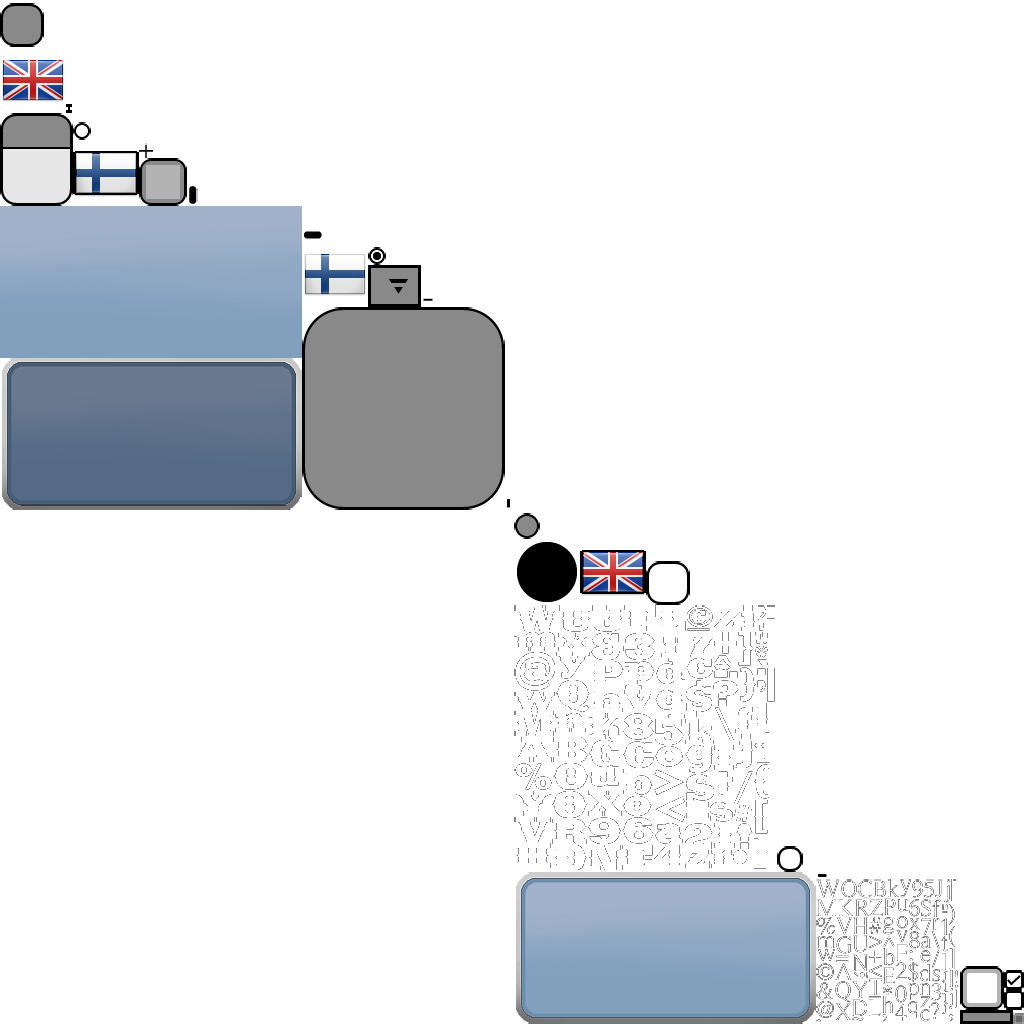
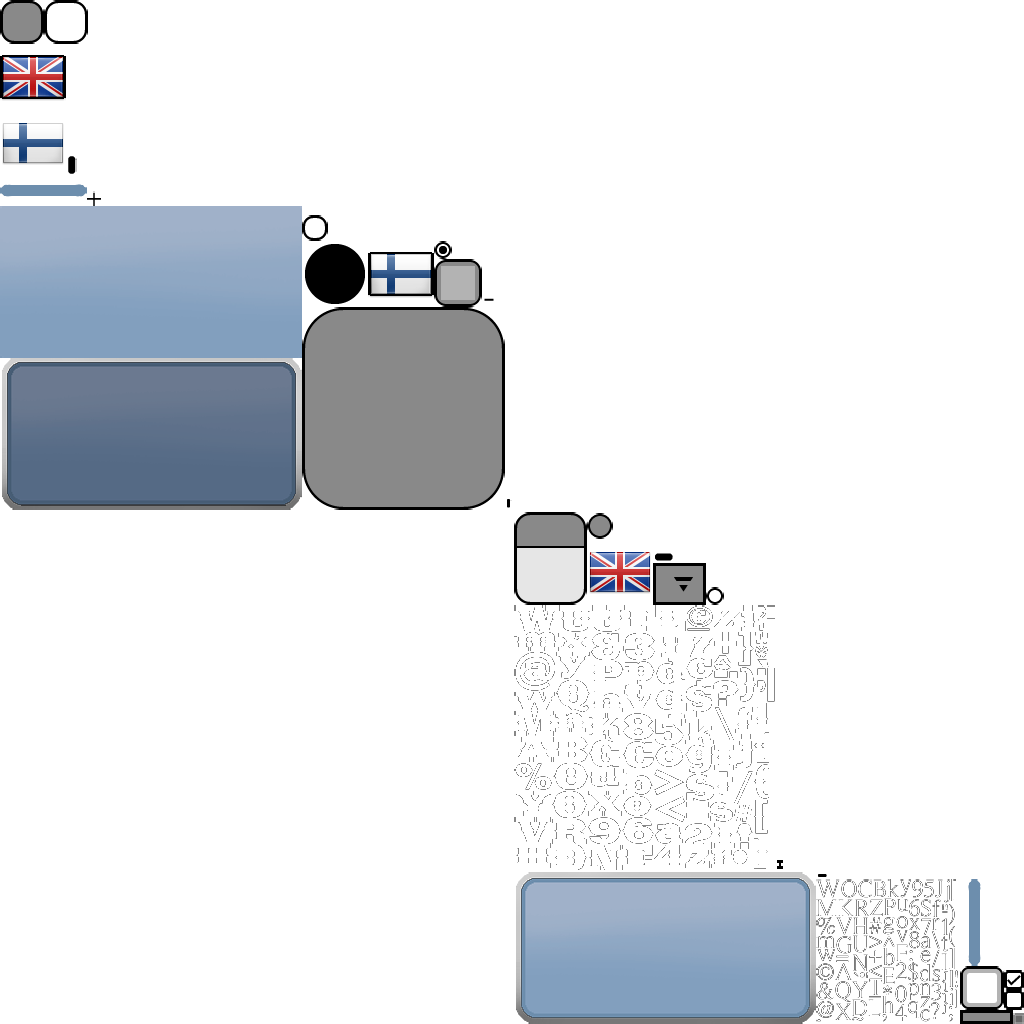
-Added locale texts for settings screen -Added text to settings screen, also sensitivity indicators -Disabled Y-axis for playtesting

diff --git a/core/src/com/mygdx/audioryder/screens/MainMenuScreen.java b/core/src/com/mygdx/audioryder/screens/MainMenuScreen.java
@@ -2,6 +2,7 @@ package com.mygdx.audioryder.screens;
 
 import com.badlogic.gdx.Gdx;
 import com.badlogic.gdx.Screen;
+import com.badlogic.gdx.graphics.Color;
 import com.badlogic.gdx.graphics.GL20;
 import com.badlogic.gdx.graphics.Texture;
 import com.badlogic.gdx.graphics.g2d.SpriteBatch;
@@ -15,6 +16,7 @@ import com.badlogic.gdx.scenes.scene2d.ui.ButtonGroup;
 import com.badlogic.gdx.scenes.scene2d.ui.HorizontalGroup;
 import com.badlogic.gdx.scenes.scene2d.ui.Image;
 import com.badlogic.gdx.scenes.scene2d.ui.ImageButton;
+import com.badlogic.gdx.scenes.scene2d.ui.Label;
 import com.badlogic.gdx.scenes.scene2d.ui.ScrollPane;
 import com.badlogic.gdx.scenes.scene2d.ui.Skin;
 import com.badlogic.gdx.scenes.scene2d.ui.Slider;
@@ -57,6 +59,13 @@ public class MainMenuScreen implements Screen {
     MenuButton settingsButton;
     MenuButton exitButton;
     MenuButton returnButton;
+    Label sensitivityText;
+    Label sensitivityText2;
+    Label leftSensText;
+    Label rightSensText;
+    Label downSensText;
+    Label upSensText;
+
 
     private Viewport viewport;
 
@@ -318,9 +327,9 @@ public class MainMenuScreen implements Screen {
             });
             if(vertical){
                 setWidth(20f);
-                setHeight(250f);
+                setHeight(230f);
             } else {
-                setWidth(250f);
+                setWidth(230f);
                 setHeight(20f);
             }
             this.direction = direction;
@@ -336,30 +345,64 @@ public class MainMenuScreen implements Screen {
             } else if(direction.equals("up")){
                 game.sensitivityUp = getValue();
             }
+            MainMenuScreen.this.updateButtonTexts();
+
         }
     }
 
     private void setupSettingsStage() {
         settingsStage = new Stage(viewport, game.batch);
+
+        sensitivityText = new Label(Properties.sensitivityText, testSkin, "forvertz", Color.WHITE);
+        sensitivityText.setAlignment(1);
+        sensitivityText.setSize(150f,50f);
+        sensitivityText.setPosition(80f,520f);
+
+        sensitivityText2 = new Label(Properties.sensitivityText2, testSkin, "conthrax", Color.WHITE);
+        sensitivityText2.setAlignment(1);
+        sensitivityText2.setFontScale(0.7f);
+        sensitivityText2.setSize(150f,50f);
+        sensitivityText2.setPosition(80f,490f - sensitivityText2.getHeight());
+
+
+
+        leftSensText = new Label(game.sensitivityLeft + "", testSkin, "forvertz", Color.WHITE);
+        leftSensText.setPosition(100f,315f);
+        rightSensText = new Label(game.sensitivityRight + "", testSkin, "forvertz", Color.WHITE);
+        rightSensText.setPosition(540f,315f);
+        downSensText = new Label(game.sensitivityDown + "", testSkin, "forvertz", Color.WHITE);
+        downSensText.setPosition(360f,130f);
+        upSensText = new Label(game.sensitivityUp + "", testSkin, "forvertz", Color.WHITE);
+        upSensText.setPosition(360f,500f);
+
+
+        settingsStage.addActor(sensitivityText);
+        settingsStage.addActor(sensitivityText2);
+        settingsStage.addActor(leftSensText);
+        settingsStage.addActor(downSensText);
+        settingsStage.addActor(rightSensText);
+        settingsStage.addActor(upSensText);
+
         SensitivitySlider left = new SensitivitySlider(false, testSkin, -4f,-1f, "left");
-        left.setPosition(100f,290f);
+        left.setPosition(90f,290f);
         SensitivitySlider down = new SensitivitySlider(true, testSkin, -4f, -1f,"down");
-        down.setPosition(360f,280f - down.getHeight());
+        down.setPosition(330f,280f - down.getHeight());
         SensitivitySlider right = new SensitivitySlider(false, testSkin, 1f,4f,"right");
-        right.setPosition(390f,290f);
+        right.setPosition(360f,290f);
         SensitivitySlider up = new SensitivitySlider(true, testSkin, 1f, 4f,"up");
-        up.setPosition(360f,320f);
+        up.setPosition(330f,320f);
 
         left.setValue(game.sensitivityLeft * -1f);
         down.setValue(game.sensitivityDown * -1f);
         right.setValue(game.sensitivityRight);
         up.setValue(game.sensitivityUp);
 
-
         settingsStage.addActor(left);
         settingsStage.addActor(down);
         settingsStage.addActor(right);
         settingsStage.addActor(up);
+
+
 
         /* Adding buttons: */
         returnButton = new MenuButton(Properties.returnText, testSkin);
@@ -380,11 +423,19 @@ public class MainMenuScreen implements Screen {
         stage.addActor(actor);
     }
 
-    private void updateButtonTexts() {
+    public void updateButtonTexts() {
         playButton.setText(Properties.playText);
         settingsButton.setText(Properties.settingsText);
         exitButton.setText(Properties.exitText);
         returnButton.setText(Properties.returnText);
+        sensitivityText.setText(Properties.sensitivityText);
+        sensitivityText2.setText(Properties.sensitivityText2);
+        leftSensText.setText(game.sensitivityLeft + "");
+        rightSensText.setText(game.sensitivityRight + "");
+        upSensText.setText(game.sensitivityUp + "");
+        downSensText.setText(game.sensitivityDown + "");
+
+
     }
 
     /**

diff --git a/core/src/com/mygdx/audioryder/objects/SpaceShip.java b/core/src/com/mygdx/audioryder/objects/SpaceShip.java
@@ -84,22 +84,22 @@ public class SpaceShip extends GameObject {
             accelX = 4f;
         } else if (Gdx.input.getAccelerometerY() - game.xCalib < -4f / game.sensitivityLeft) {
             accelX = -4f;
-        } else if (Gdx.input.getAccelerometerY() - game.xCalib < 0.8f / game.sensitivityRight && Gdx.input.getAccelerometerY() - game.xCalib > -0.8f / game.sensitivityLeft) {
+        } else if (Gdx.input.getAccelerometerY() - game.xCalib < 1f / game.sensitivityRight && Gdx.input.getAccelerometerY() - game.xCalib > -1f / game.sensitivityLeft) {
             accelX = -0f;
-        } else if (Gdx.input.getAccelerometerY() - game.xCalib > 0.8f / game.sensitivityRight) {
-            accelX = Gdx.input.getAccelerometerY() * game.sensitivityRight;
-        } else if (Gdx.input.getAccelerometerY() - game.xCalib < -0.8f / game.sensitivityLeft){
-            accelX = Gdx.input.getAccelerometerY() * game.sensitivityLeft;
+        } else if (Gdx.input.getAccelerometerY() - game.xCalib > 1f / game.sensitivityRight) {
+            accelX = (Gdx.input.getAccelerometerY() - game.xCalib)* game.sensitivityRight;
+        } else if (Gdx.input.getAccelerometerY() - game.xCalib < -1f / game.sensitivityLeft){
+            accelX = (Gdx.input.getAccelerometerY()  - game.xCalib )* game.sensitivityLeft;
         }
-
+        /*
         if(Gdx.input.getAccelerometerZ() - game.yCalib > 2f / (game.sensitivityDown)){
-            accelY = -2f;
-        } else if (Gdx.input.getAccelerometerZ() - game.yCalib < -2f / (game.sensitivityUp)) {
             accelY = 0f;
+        } else if (Gdx.input.getAccelerometerZ() - game.yCalib < -2f / (game.sensitivityUp)) {
+            accelY = 2f;
         } else if (Gdx.input.getAccelerometerZ() - game.yCalib < 2f / (game.sensitivityDown) && Gdx.input.getAccelerometerZ() - game.yCalib > -2f / (game.sensitivityUp)) {
-            accelY = -1f;
+            accelY = 1f;
         }
-
+        */
         latestMovement[0][moveAverageIndex] = accelX;
         latestMovement[1][moveAverageIndex] = accelY;
         if(moveAverageIndex < rollingAverageCount - 1) {
@@ -114,7 +114,7 @@ public class SpaceShip extends GameObject {
 
         for(int i = 0; i < rollingAverageCount; i++){
             totalX = totalX + latestMovement[0][i];
-            totalY = (totalY + latestMovement[1][i] + 2f);
+            totalY = (totalY + latestMovement[1][i]);
         }
         totalY = totalY / rollingAverageCount;
         totalX = totalX / rollingAverageCount;

diff --git a/core/src/com/mygdx/audioryder/properties/Properties.java b/core/src/com/mygdx/audioryder/properties/Properties.java
@@ -21,6 +21,8 @@ public class Properties {
     public static String settingsText;
     public static String exitText;
     public static String returnText;
+    public static String sensitivityText;
+    public static String sensitivityText2;
 
     public static void updateProperties() {
         I18NBundle myBundle = I18NBundle.createBundle(Gdx.files.internal("MyBundle"), currentLocale);
@@ -29,6 +31,8 @@ public class Properties {
         settingsText = myBundle.get("settingsText");
         exitText = myBundle.get("exitText");
         returnText = myBundle.get("returnText");
+        sensitivityText = myBundle.get("sensitivityText");
+        sensitivityText2 = myBundle.get("sensitivityText2");
     }
 
 }
